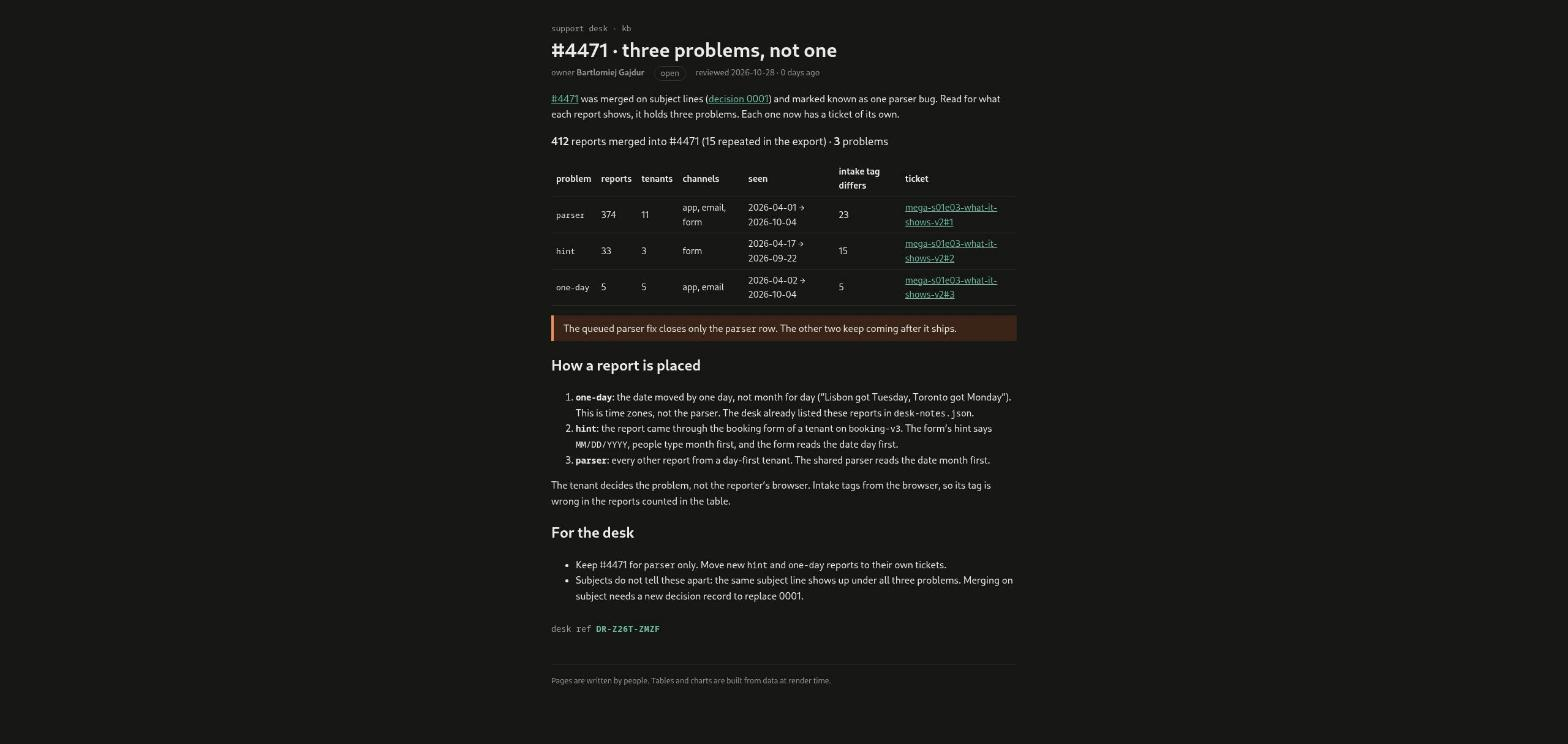
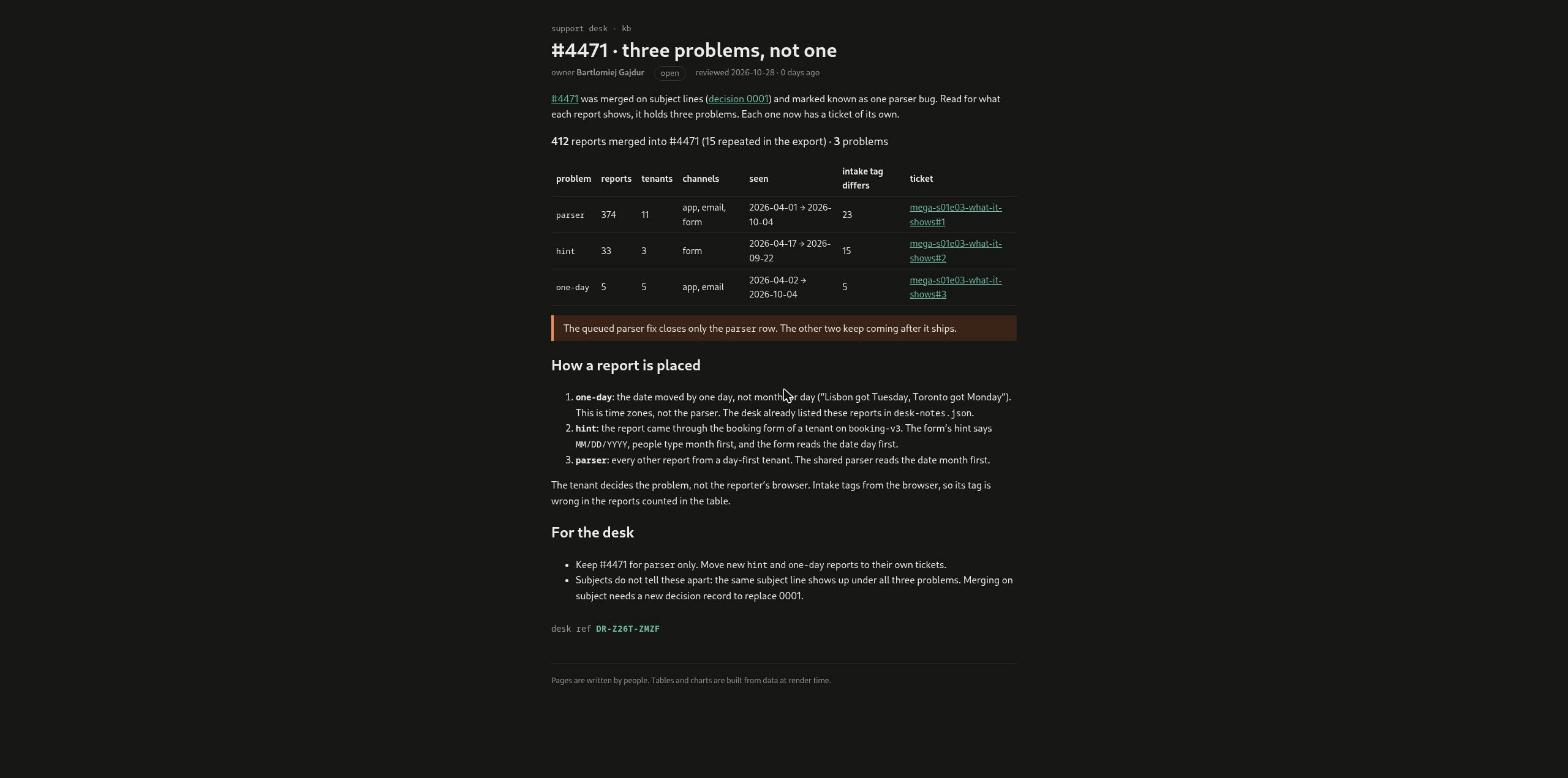
Point kb page back at the original repo tickets

Changed region(s): [[0.3438, 0.0309, 0.6562, 0.9274], [0.3438, 0.2782, 0.375, 0.3091]]

diff --git a/rendered/problems.html b/rendered/problems.html
@@ -1,12 +1,12 @@
 <!doctype html>
-<html lang="en"><head><meta charset="utf-8" /><meta name="viewport" content="width=device-width, initial-scale=1" /><link href="../../../_app/immutable/entry/start.CQE_BQR-.js" rel="modulepreload">
-		<link href="../../../_app/immutable/chunks/_qIv8ZmN.js" rel="modulepreload">
+<html lang="en"><head><meta charset="utf-8" /><meta name="viewport" content="width=device-width, initial-scale=1" /><link href="../../../_app/immutable/entry/start.BQccLMJE.js" rel="modulepreload">
+		<link href="../../../_app/immutable/chunks/f0cBhJ5R.js" rel="modulepreload">
 		<link href="../../../_app/immutable/chunks/DgZ7eMIM.js" rel="modulepreload">
-		<link href="../../../_app/immutable/entry/app.DfoVnG6f.js" rel="modulepreload">
+		<link href="../../../_app/immutable/entry/app.CtqFukVt.js" rel="modulepreload">
 		<link href="../../../_app/immutable/chunks/xihTtKlq.js" rel="modulepreload">
 		<link href="../../../_app/immutable/nodes/0.FtfD6PNt.js" rel="modulepreload">
-		<link href="../../../_app/immutable/nodes/5.B3pKvX30.js" rel="modulepreload">
-		<link href="../../../_app/immutable/chunks/Cs0bpOB3.js" rel="modulepreload">
+		<link href="../../../_app/immutable/nodes/5.CL49nxmF.js" rel="modulepreload">
+		<link href="../../../_app/immutable/chunks/9hW30NZQ.js" rel="modulepreload">
 		<link href="../../../_app/immutable/chunks/BUobAEgd.js" rel="modulepreload">
 		<link href="../../../_app/immutable/chunks/CVBzP17p.js" rel="modulepreload">
 		<link href="../../../_app/immutable/chunks/BlNrTger.js" rel="modulepreload">
@@ -22,22 +22,22 @@ aside.svelte-17bri61{border-left:4px solid var(--accent);background:var(--note-b
 		<link href="../../../_app/immutable/assets/_page.CgouBqEL.css" rel="stylesheet" disabled media="(max-width: 0)"></head>
 <body><div style="display: contents"><!--[--><!--[0--><!--[--><!--[--><div class="kb svelte-e2jw2j"><header><a class="crumb svelte-e2jw2j" href="/kb">support desk · kb</a> <h1 class="svelte-e2jw2j">#4471 · three problems, not one</h1> <p class="meta svelte-e2jw2j"><span>owner <b>Bartlomiej Gajdur</b></span> <span class="status open svelte-e2jw2j">open</span> <span class="svelte-e2jw2j">reviewed 2026-10-28 · 0 days ago</span></p></header> <!--[-1--><!--]--> <main><p><a href="/kb/incidents/4471">#4471</a> was merged on subject lines (<a href="/kb/decisions/0001-dedupe-by-subject">decision 0001</a>)
 and marked known as one parser bug. Read for what each report shows, it holds three problems.
-Each one now has a ticket of its own.</p> <p class="sum svelte-1op6c6"><strong>412</strong> reports merged into #4471 (15 repeated in the export) · <strong>3</strong> problems</p> <table><thead><tr><th>problem</th><th>reports</th><th>tenants</th><th>channels</th><th>seen</th><th>intake tag differs</th><th>ticket</th></tr></thead><tbody><!--[--><tr><td><code>parser</code></td><td>374</td><td>11</td><td>app, email, form</td><td>2026-04-01 → 2026-10-04</td><td>23</td><td><!--[0--><a href="https://github.com/BartlomiejGajdur/mega-s01e03-what-it-shows-v2/issues/1">mega-s01e03-what-it-shows-v2#1</a><!--]--></td></tr><tr><td><code>hint</code></td><td>33</td><td>3</td><td>form</td><td>2026-04-17 → 2026-09-22</td><td>15</td><td><!--[0--><a href="https://github.com/BartlomiejGajdur/mega-s01e03-what-it-shows-v2/issues/2">mega-s01e03-what-it-shows-v2#2</a><!--]--></td></tr><tr><td><code>one-day</code></td><td>5</td><td>5</td><td>app, email</td><td>2026-04-02 → 2026-10-04</td><td>5</td><td><!--[0--><a href="https://github.com/BartlomiejGajdur/mega-s01e03-what-it-shows-v2/issues/3">mega-s01e03-what-it-shows-v2#3</a><!--]--></td></tr><!--]--></tbody></table><!----> <aside class="warn svelte-17bri61"><!---->The queued parser fix closes only the <code>parser</code> row. The other two keep coming after it ships.<!----></aside><!----> <h2>How a report is placed</h2> <ol><li><strong><code>one-day</code></strong>: the date moved by one day, not month for day (“Lisbon got Tuesday, Toronto got
+Each one now has a ticket of its own.</p> <p class="sum svelte-1op6c6"><strong>412</strong> reports merged into #4471 (15 repeated in the export) · <strong>3</strong> problems</p> <table><thead><tr><th>problem</th><th>reports</th><th>tenants</th><th>channels</th><th>seen</th><th>intake tag differs</th><th>ticket</th></tr></thead><tbody><!--[--><tr><td><code>parser</code></td><td>374</td><td>11</td><td>app, email, form</td><td>2026-04-01 → 2026-10-04</td><td>23</td><td><!--[0--><a href="https://github.com/BartlomiejGajdur/mega-s01e03-what-it-shows/issues/1">mega-s01e03-what-it-shows#1</a><!--]--></td></tr><tr><td><code>hint</code></td><td>33</td><td>3</td><td>form</td><td>2026-04-17 → 2026-09-22</td><td>15</td><td><!--[0--><a href="https://github.com/BartlomiejGajdur/mega-s01e03-what-it-shows/issues/2">mega-s01e03-what-it-shows#2</a><!--]--></td></tr><tr><td><code>one-day</code></td><td>5</td><td>5</td><td>app, email</td><td>2026-04-02 → 2026-10-04</td><td>5</td><td><!--[0--><a href="https://github.com/BartlomiejGajdur/mega-s01e03-what-it-shows/issues/3">mega-s01e03-what-it-shows#3</a><!--]--></td></tr><!--]--></tbody></table><!----> <aside class="warn svelte-17bri61"><!---->The queued parser fix closes only the <code>parser</code> row. The other two keep coming after it ships.<!----></aside><!----> <h2>How a report is placed</h2> <ol><li><strong><code>one-day</code></strong>: the date moved by one day, not month for day (“Lisbon got Tuesday, Toronto got
 Monday”). This is time zones, not the parser. The desk already listed these reports in <code>desk-notes.json</code>.</li> <li><strong><code>hint</code></strong>: the report came through the booking form of a tenant on <code>booking-v3</code>. The form’s hint says <code>MM/DD/YYYY</code>, people type month first, and the form reads the date day first.</li> <li><strong><code>parser</code></strong>: every other report from a day-first tenant. The shared parser reads the date month first.</li></ol> <p>The tenant decides the problem, not the reporter’s browser. Intake tags from the browser, so its tag
 is wrong in the reports counted in the table.</p> <h2>For the desk</h2> <ul><li>Keep #4471 for <code>parser</code> only. Move new <code>hint</code> and <code>one-day</code> reports to their own tickets.</li> <li>Subjects do not tell these apart: the same subject line shows up under all three problems. Merging on
 subject needs a new decision record to replace 0001.</li></ul> <!--[0--><p class="stamp svelte-1280m42">desk ref <b class="svelte-1280m42">DR-Z26T-ZMZF</b></p><!--]--><!----><!----></main> <footer class="svelte-e2jw2j">Pages are written by people. Tables and charts are built from data at render time.</footer></div><!--]--><!----><!--]--><!--]--> <!--[-1--><!--]--><!--]-->
 			
 			<script>
 				{
-					__sveltekit_rvkpz3 = {
+					__sveltekit_19duhyz = {
 						base: new URL("../../..", location).pathname.slice(0, -1)
 					};
 
 					const element = document.currentScript.parentElement;
 
 					Promise.all([
-						import("../../../_app/immutable/entry/start.CQE_BQR-.js"),
-						import("../../../_app/immutable/entry/app.DfoVnG6f.js")
+						import("../../../_app/immutable/entry/start.BQccLMJE.js"),
+						import("../../../_app/immutable/entry/app.CtqFukVt.js")
 					]).then(([kit, app]) => {
 						kit.start(app, element, {
 							node_ids: [0, 5],
